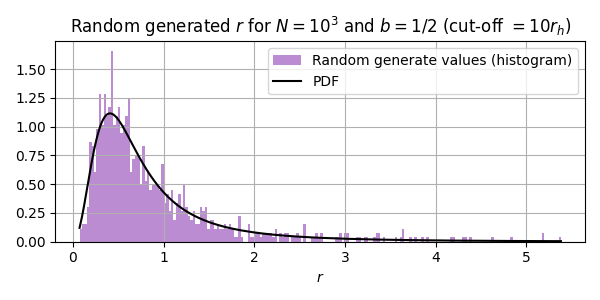
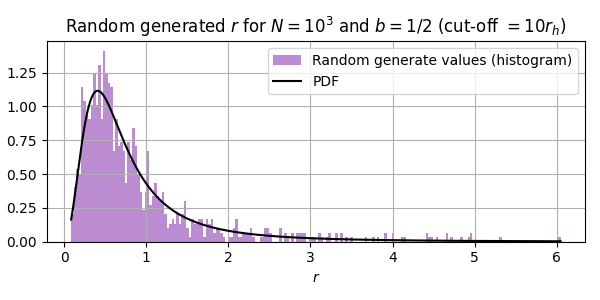
mais informacoes

diff --git a/initial_values/plummer_galpy_example.py b/initial_values/plummer_galpy_example.py
@@ -1,6 +1,7 @@
 import matplotlib.pyplot as plt
 import numpy as np
 from galpy import potential, df
+import ncorpos_utilidades as nut
 
 def plummer (N, b=1.0):
   pot = potential.PlummerPotential(amp=1.0, b=b, normalize=False)
@@ -49,14 +50,64 @@ if __name__ == '__main__':
     plt.tight_layout()
     plt.savefig("plummer_radius_example_without_cutoff.png")
     
+    # VELOCITIES
+    vxs = orbits.vx()
+    vys = orbits.vy()
+    vzs = orbits.vz()
+    vs = np.linalg.norm(np.column_stack((vxs, vys, vzs)), axis=1)
+    
+    # evaluating the escape velocity to get the q's
+    rs = np.linalg.norm(qs, axis=1)
+    pot = potential.PlummerPotential(amp=1.0, b=b, normalize=False)
+    v_esc = np.sqrt(-2.0 * pot(rs,0))
+    qs = vs / v_esc
+    
+    g = lambda q: q*q*(1-q*q)**(3.5)
+    axis_v = np.linspace(0, 1, 100)
+    gs = g(axis_v)
+    gs = gs / np.sum(gs)
+    plt.plot(axis_v, gs, c='black')
+    
+    plt.figure(figsize=(6,3))
+    plt.title(r"Random generated $v$ for $N=10^3$ and $b=1/2$")
+    plt.hist(qs, bins=100, weights=np.ones(N)/N, color="#bb8cd1", label="Random generate values (histogram)")
+    plt.plot(axis_v, gs, c='black', label="PDF")
+    plt.legend()
+    plt.grid(True)
+    plt.xlabel(r"$v$")
+    plt.tight_layout()
+    plt.savefig("plummer_velocity_example.png")
+    
+    # lets verify some properties
+    qs = np.column_stack((xs, ys, zs))
+    vs = np.column_stack((vxs, vys, vzs))
+    ps = np.array([ms[i] * vs[i] for i in range(N)])
+    
+    T = nut.energia_cinetica(ms, ps)
+    V = nut.energia_potencial(ms, qs, 1.0, 0.0)
+    E = T + V
+    Q = - 2.0 * T / V
+    
+    V_expected = - 3.*np.pi*1.0*M**2 / (32. * b)
+    T_expected = - V_expected / 2.
+    Q_expected = 1.0
+    E_expected = - T_expected
+    
+    print("Dynamical properties (||real - expected||):")
+    print(f"Potential V: {abs(V - V_expected)}")
+    print(f"Kinect T:    {abs(T - T_expected)}")
+    print(f"Total E:     {abs(E - E_expected)}")
+    print(f"Virial Q:    {abs(Q - 1.0)}")
+    
+    
     # WITH CUT-OFF
     orbits = plummer_truncated(N, 10 * 1.3 * b, b)
 
     xs, ys, zs = np.zeros(N), np.zeros(N), np.zeros(N)
     for i, orb in enumerate(orbits):
-        xs[i] = orb.x()
-        ys[i] = orb.y()
-        zs[i] = orb.z()
+      xs[i] = orb.x()
+      ys[i] = orb.y()
+      zs[i] = orb.z()
 
     qs = np.column_stack((xs, ys, zs))
     rs = np.linalg.norm(qs, axis=1)

diff --git a/initial_values/README.md b/initial_values/README.md
@@ -63,11 +63,67 @@ $$
 \rho(\vec x) = \int f(\vec x, \vec v) \ d^3 v.
 $$
 
-2. If we suppose initial equilibrium (in some sense), $\partial f / \partial t = 0$. By the Jeans Theorem, $f$ depends only on the first integrals of the system, and if the system is spherically isotropic, it depends only on the specific energy.
+2. If we suppose initial equilibrium (in some sense), $\partial f / \partial t = 0$. By the Jeans Theorem, $f$ depends only on the first integrals of the system, and if the system is spherically isotropic, it depends only on the specific energy:
+
+$$
+E(x, v) = \dfrac{1}{2} v^2 + \Phi(x).
+$$
 
 3. To find $f(E)$ we use the Eddington inversion formula.
 
-4. With $f(E)$ we generate $0 \leq v \leq v_{escape}$, with $v_{escape} = \sqrt{- 2 \Phi(r)}$, with probability $P(v | r) \propto v^2 f(E)$.
+4. With $f(E)$ we generate $0 \leq v \leq v_{escape}$, with $v_{escape} = \sqrt{- 2 \Phi(r)}$, with probability $p(v | r) \propto v^2 f(E)$.
+
+Ignoring the unknow (for now) origin of these things, the Edding inversion formula gives:
+
+$$
+f(\vec x, \vec v) = \dfrac{24 \sqrt{2}}{7 \pi^3} \dfrac{b^2}{G^5 M^4} (-E(\vec x, \vec v))^{7/2} \equiv f(E).
+$$
+
+Considering a volume element in the velocity space between $v$ and $dv$, we have 
+
+$$
+p(v | r) \propto 4 \pi v^2 f(E) dv.
+$$
+
+Using the value of $E$, we get
+
+$$
+p(v | r) \propto v^2 \left(-\dfrac{v^2}{2} - \Phi(r)\right)^{7/2}.
+$$
+
+Let's suposse that we don't want particles with a velocity bigger than the escape velocity $v_{esc}(r) = \sqrt{- 2 \Phi(r)}$. Defining $q := v/v_{esc} \in [0,1]$, we can rewrite the probability:
+
+$$
+p(v | r) \propto q^2 (1 - q^2)^{7/2} =: g(q).
+$$
+
+To generate a velocity given $r$, we need to use rejection (von Neumann). First, $g(q)$ has a global maximum (as $q \geq 0$) at $q_{max} = \sqrt{2}/3$, with $g(q_{max}) \approx 0.0922 $. Now we do:
+
+1. Generate $q \sim U[0,1]$.
+2. Generate $y = g(q_{max}) \cdot y_0$, with $y_0 \sim U[0,1]$.
+3. If $y \leq g(q)$, we accept and define $v = q \ v_{esc}$. If not, go to (1).
+
+We can expect some properties of the generated initial values. First, the potential energy $V$ can be calculated with:
+
+$$
+V = \dfrac{1}{2} \int \rho(\vec x) \Phi(\vec x) d^3x = 2 \pi \int_0^\infty \rho(r) \Phi(r) r^2 dr = - \dfrac{3 \pi}{32} \dfrac{G M^2}{b}.
+$$
+
+As long as the function $f$ became from the Boltzmann Equation, we can expect the values to be virialized/in equilibrium:
+$$
+Q = - \dfrac{2 T}{V} = 1,
+$$
+where $T$ is the kinect energy. This means that
+$$
+T = \dfrac{3 \pi}{64}\dfrac{G M^2}{b}
+$$
+and the total energy is:
+$$
+E = - \dfrac{3 \pi}{64}\dfrac{G M^2}{b}.
+$$
+
+Obviously this is exact only with $N \to \infty$, but we can expected something nearly these values with finite $N$.
+
 
 ## Using galpy
 
@@ -95,19 +151,28 @@ vxs, vys, vzs = orbits.vx(), orbits.vy(), orbits.vz()
 
 ![](./plummer_radius_example_cutoff.png)
 
-For the velocities, ignoring the unknow (for now) origin of these things, the Edding inversion formula gives:
+To verify the velocities we need to get the random variables $q = v / v_{esc}$ instead of just $v$.
 
-$$
-f(\vec x, \vec v) = \dfrac{24 \sqrt{2}}{7 \pi^3} \dfrac{b^2}{G^5 M^4} (-E(\vec x, \vec v))^{7/2}.
-$$
+```python
+rs = np.linalg.norm(qs, axis=1)
+pot = potential.PlummerPotential(amp=1.0, b=b, normalize=False)
+v_esc = np.sqrt(-2.0 * pot(rs,0))
+qs = vs / v_esc
+```
 
-Confirming the Jeans theorem, we just need to choose a specific energy $E$:
+Normalizing the values to compare with the PDF, we get:
 
-$$
-f(E) \propto (-E)^{7/2}
-$$
+![](./plummer_velocity_example.png)
 
-...tomorrow I finish this.
+For the dynamic properties, we can see that $N=10^3$ is not really so much, but we have something near the expected:
+
+```
+Dynamical properties (||real - expected||):
+Potential V: 0.006832137175154629
+Kinect T:    0.00337158496224943
+Total E:     0.010203722137404059
+Virial Q:    0.022781918828791548
+```
 
 ---
 
